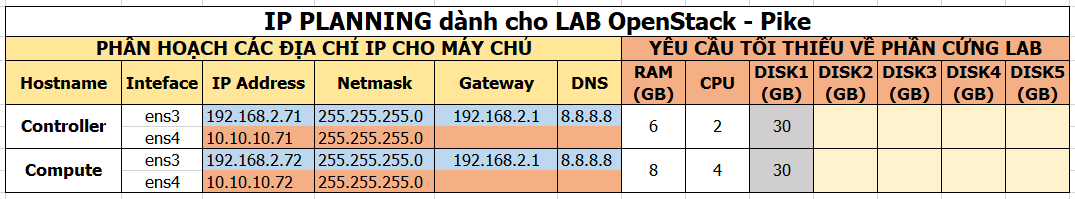
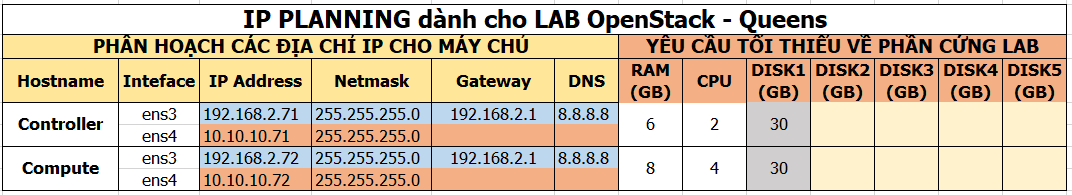
Update "Báo cáo OpenStack Queens"

diff --git a/Queens/Install-manual/Linuxbridge/docs/Install_OPS_with_Linuxbridge.md b/Queens/Install-manual/Linuxbridge/docs/Install_OPS_with_Linuxbridge.md
@@ -31,7 +31,7 @@
 <a name="1"></a>
 
 # 1.Mô hình
-Mô hình cài đặt OpenStack Pike gồm 2 node: Controller và Compute.
+Mô hình cài đặt OpenStack Queens gồm 2 node: Controller và Compute.
 
 <img src="../images/mo_hinh.png" />
 
@@ -263,7 +263,7 @@ MS Name/IP address         Stratum Poll Reach LastRx Last sample
 \- Kích hoạt OpenStack repository  
 ```
 apt install software-properties-common
-add-apt-repository cloud-archive:pike
+add-apt-repository cloud-archive:queens
 ```
 
 \- Update và upgrade:  
@@ -1634,7 +1634,7 @@ service apache2 reload
 <a name="tailieuthamkhao"></a>
 
 # Tài liệu tham khảo
-\- https://docs.openstack.org/pike/install/  
+\- https://docs.openstack.org/queens/install/  
 
 
 
